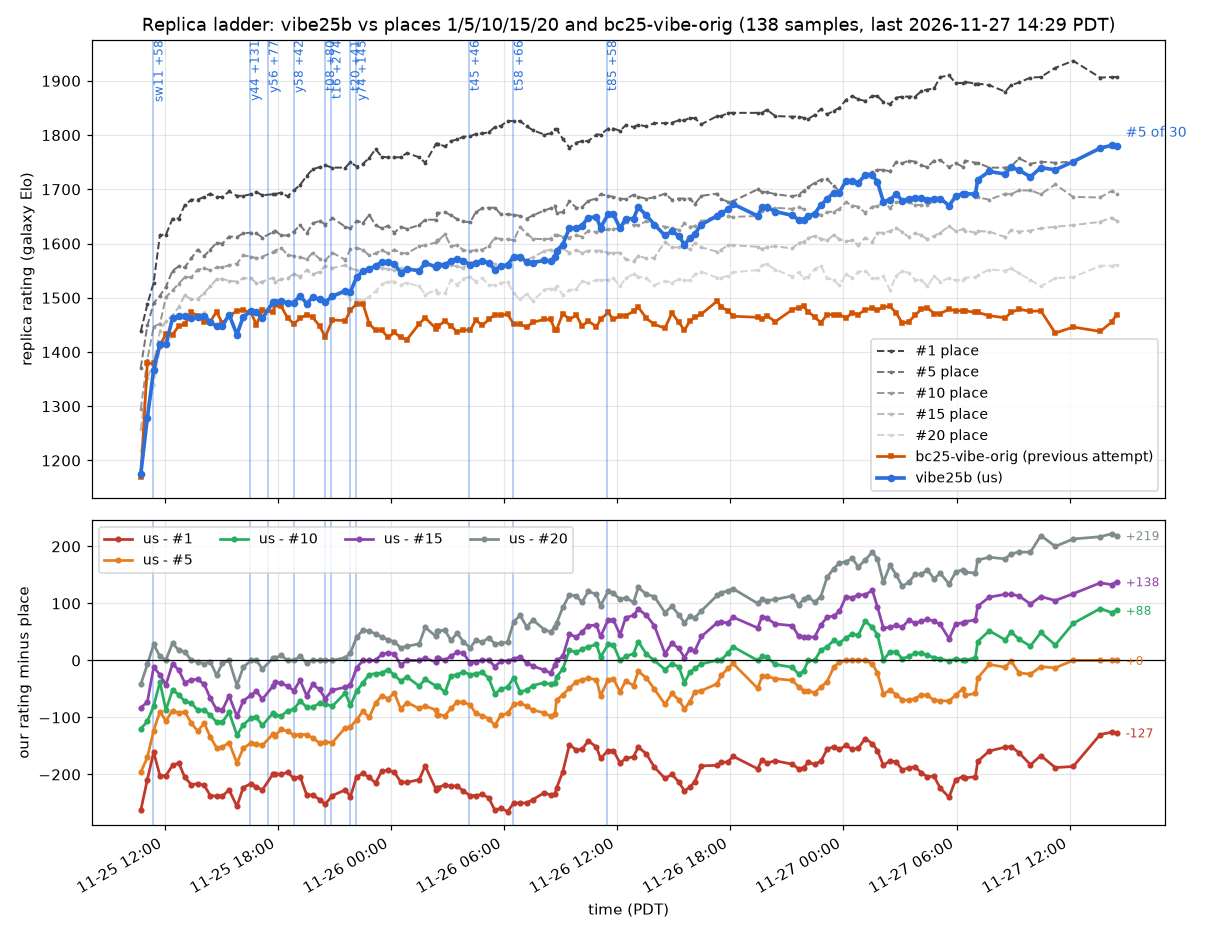
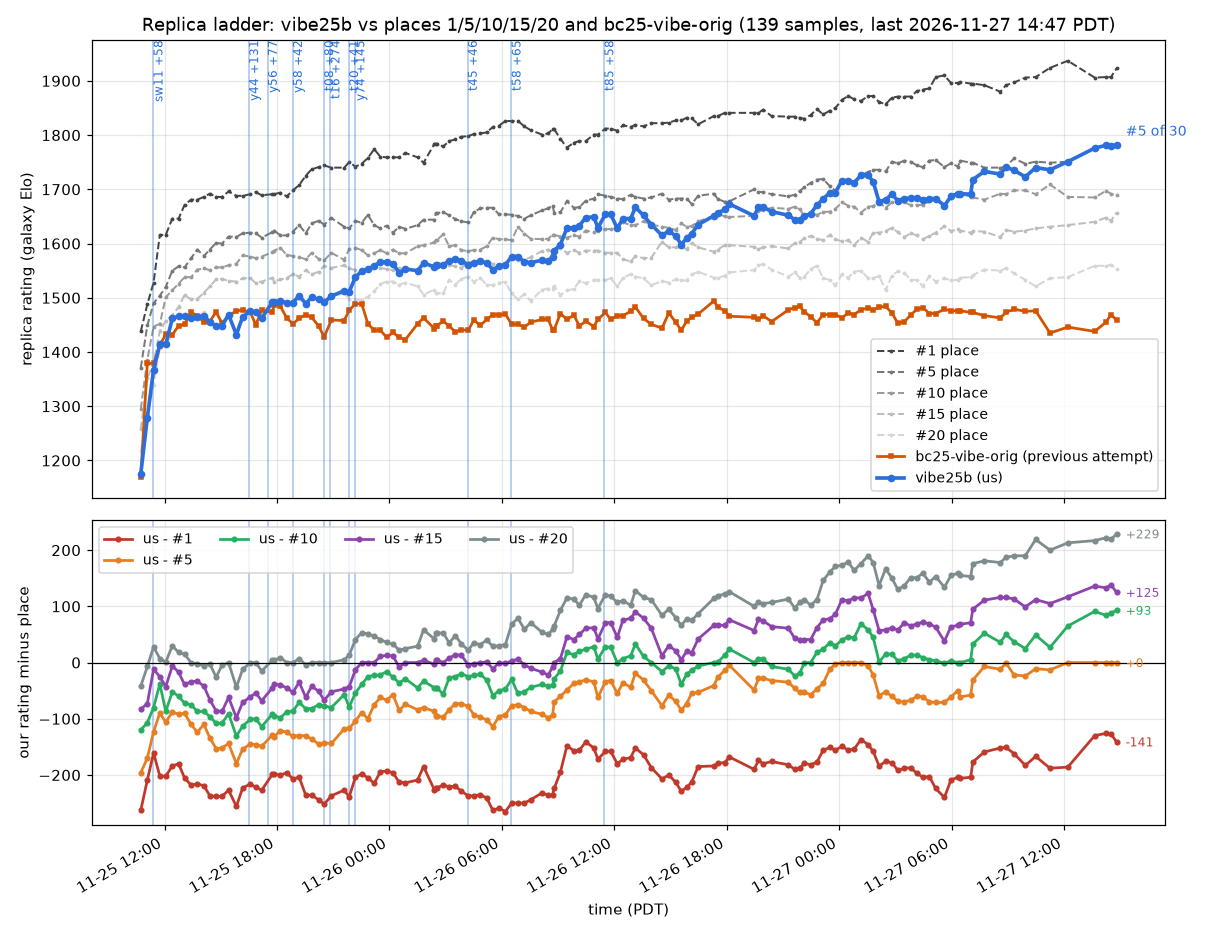
prod: newcomers at 70-140 games; PROMPTS #64-#65
Claude-Session: https://claude.ai/code/session_01SzziPSCWtjsjju9cnThDf5

diff --git a/progress/local-elo.md b/progress/local-elo.md
@@ -1,55 +1,55 @@
 # Local tournament Elo
 
-Bradley-Terry ratings of our own bots in the local tournament (`tools/tourney.py`), all 169849 games in one fit as of 2026-11-27 14:31 PDT, so every point is on the same scale; earlier champions are shown at their current rating, and "Gain" is the rating over the champion it replaced. `tools/tourney.py rank` rewrites this table; `tools/tourney.py chart` also redraws the chart.
+Bradley-Terry ratings of our own bots in the local tournament (`tools/tourney.py`), all 171054 games in one fit as of 2026-11-27 14:48 PDT, so every point is on the same scale; earlier champions are shown at their current rating, and "Gain" is the rating over the champion it replaced. `tools/tourney.py rank` rewrites this table; `tools/tourney.py chart` also redraws the chart.
 
 ![local elo](local-elo.png)
 
 | Champion from (PDT) | Bot | Change on base | Submission | Rating +- SE | Gain | Games |
 |---|---|---|---:|---:|---:|---:|
-| 2026-11-25 08:28 | v01 | foundation bot |  | 149 +- 18 |  | 435 |
-| 2026-11-25 08:39 | v02 | nav wall-follow fix + bytecode guards on v01 | #6 | 214 +- 13 | +65 | 801 |
-| 2026-11-25 09:01 | y02 | paint-heavy tower mix + paint towers upgraded first on v02 | #7 | 273 +- 11 | +59 | 1080 |
-| 2026-11-25 09:49 | y06 | 3 opening soldiers instead of 2 on y02 | #35 | 294 +- 13 | +21 | 700 |
-| 2026-11-25 10:09 | sw06 | no moppers before r80; a third of spawns moppers after (field study 1) on y02 | #36 | 352 +- 12 | +79 | 863 |
-| 2026-11-25 11:04 | y11 | mid-game mix 3 moppers per 6 (soldier mopper splasher mopper soldier mopper) on sw06 | #37 | 384 +- 14 | +33 | 655 |
-| 2026-11-25 11:24 | sw11 | at most 1 helper soldier per ruin (more ruins claimed in parallel) on y11 | #38 | 442 +- 11 | +58 | 1159 |
-| 2026-11-25 12:24 | y17 | sw11 + moppers prefer enemies within r2 25 of our towers (sw12) on sw11 | #39 | 460 +- 12 | +18 | 871 |
-| 2026-11-25 12:44 | y19 | sw11 with soldiers joining an occupied ruin only when adjacent (r2<=2) on y17 | #40 | 496 +- 14 | +35 | 678 |
-| 2026-11-25 13:04 | y24 | y17 with mopper defence widened (DEFEND_R2 36 / bonus 80) on y19 | #41 | 530 +- 13 | +35 | 679 |
-| 2026-11-25 13:24 | y25 | y19 (adjacent-only ruin helping) + y17 tower-defending moppers on y24 | #42 | 539 +- 12 | +9 | 898 |
-| 2026-11-25 13:44 | sw16 | y25 + soldier siege: with no ruin and paint>=80 kite a known enemy tower within r2 64 on y25 | #43 | 564 +- 11 | +24 | 976 |
-| 2026-11-25 14:04 | sw17 | y28 (siege from 50 paint r2 100) + splasher siege (towers weigh 40; walk to known tower within r2 100 at paint>=100) on sw16 | #44 | 597 +- 10 | +33 | 1110 |
-| 2026-11-25 14:44 | y30 | y28 with soldier siege from 30 paint within r2 144 (no splasher siege) on sw17 | #45 | 614 +- 7 | +17 | 2377 |
-| 2026-11-25 16:30 | y44 | study 3 tactic 3 (enemy refill policy): return at 50% paint (soldier 100/splasher 100/mopper 40) + end-of-turn top-up from any adjacent ally tower on y30 | #46 | 744 +- 8 | +131 | 2250 |
-| 2026-11-25 17:30 | y56 | study 3 tactic 4 (tower churn): a drained L1 money tower with intact pattern and an ally adjacent disintegrates at >=2000 chips; adjacent robots re-complete it for a fresh 500 paint on y44 | #47 | 822 +- 10 | +77 | 1320 |
-| 2026-11-25 18:50 | y58 | study 3 tactic 2 (early soldiers paint patterns not coverage): exploring soldiers paint no coverage before r50 on y56 | #48 | 863 +- 11 | +42 | 997 |
-| 2026-11-25 19:30 | t04 | t02 (no coverage painting before r80) + t03 (units wait beside drained money towers and repair their pattern so churn fires; study 3 tactics 2 and 4) on y58 | #49 | 896 +- 11 | +33 | 1065 |
-| 2026-11-25 20:30 | t08 | study 4 2.2 (contested ruins): soldiers skip a ruin with enemy paint in its visible 5x5 (bad for 50 rounds) on t04 | #50 | 976 +- 13 | +80 | 775 |
-| 2026-11-25 20:50 | t16 | t12 (t08 + study 4 2.1 spawn freeze 8 rounds in 20 below 1000+cost) + study 4 2.4 money-first: builds money until 8 towers then paint while paint towers < n/5; paint first only if none (all towers known) on t08 | #51 | 1251 +- 12 | +274 | 1213 |
-| 2026-11-25 21:50 | t20 | study 4 2.3: splashers weight enemy towers 30 (was 12) in the splash score on t16 | #52 | 1292 +- 15 | +41 | 587 |
-| 2026-11-25 22:10 | y74 | unit audit (owner prompt #15): splash-grid bug fix (enemy tiles never scored) + moppers stop once enemy paint is in mop reach; built on t16 on t20 | #53 | 1436 +- 10 | +145 | 1255 |
-| 2026-11-25 23:10 | t25 | unit audit + top teams' unit mix (616 S / 662 X / 701 M): after r80 paint towers cycle soldier-splasher-mopper; money towers keep S M X M S M on y74 | #54 | 1473 +- 13 | +36 | 680 |
-| 2026-11-25 23:30 | t27 | top teams' splasher-heavy late mix pushed further: paint towers cycle soldier-splasher-splasher-mopper after r80 on t25 | #55 | 1495 +- 9 | +23 | 1554 |
-| 2026-11-26 00:30 | y95 | upgrade spare 1200 (was 800): chips stay for new towers longer on t27 | #56 | 1530 +- 9 | +35 | 1822 |
-| 2026-11-26 02:01 | t36 | late SRPs (study 4 2.6 / study 3 tactic 7): soldiers without a ruin build SRPs on the x%4==2 y%4==2 lattice from r100 with chips>=1000; splashers avoid repainting SRP secondary tiles on y95 | #57 | 1567 +- 11 | +37 | 977 |
-| 2026-11-26 02:50 | y110 | money towers upgrade only with 2500 chips beyond the cost+spare (was 1000): chips go to new towers and SRPs on t36 | #58 | 1598 +- 10 | +31 | 1260 |
-| 2026-11-26 03:30 | t42 | study 4 3.1 recovery: with every tower known and no money tower left the next ruin is a money tower on y110 | #59 | 1613 +- 10 | +15 | 1332 |
-| 2026-11-26 04:10 | t45 | study 3 tactic 1: after r40 towers spawn only with 1000 chips beyond the unit's cost (no 600-chip window) on t42 | #60 | 1659 +- 10 | +46 | 1226 |
-| 2026-11-26 04:50 | t47 | study 3 tactic 5: a mopper due in the cycle spawns even below the 1000 reserve when an enemy robot is within d2 20 of the tower on t45 | #61 | 1688 +- 7 | +29 | 2398 |
-| 2026-11-26 06:30 | t58 | study 5 2.3: a splasher that has not splashed for 8 rounds (while able to) explores instead of chasing the nearest non-ally tile on t47 | #62 | 1754 +- 11 | +66 | 1087 |
-| 2026-11-26 07:10 | t61 | study 5 2.1 (softened): money towers for builds 1-5; then one more paint tower per 4 towers on t58 | #63 | 1790 +- 11 | +36 | 938 |
-| 2026-11-26 07:30 | y155 | study 5 2.1 tuned: money towers for builds 1-6; then one more paint tower per 4 towers on t61 | #64 | 1821 +- 9 | +32 | 1615 |
-| 2026-11-26 08:27 | t70 | y155 + splashers weight enemy towers 30 (t68) + 2000+ chips makes the next tower a paint tower (y159) on y155 | #65 | 1848 +- 7 | +27 | 2530 |
-| 2026-11-26 09:47 | t74 | moppers weight enemy paint near ruins 40 (study 6 2.1c) on t70 | #66 | 1867 +- 8 | +19 | 2200 |
-| 2026-11-26 10:47 | y170 | soldiers make the next tower a paint tower at 1500+ chips (t63 tuning; was 2000) on t74 | #67 | 1863 +- 7 | -4 | 2823 |
-| 2026-11-26 11:27 | t85 | study 6 2.2 ruin denial from where the soldier stands: a soldier with no ruin paints empty tiles of a ruin the enemy is building; without walking to it on y170 | #68 | 1921 +- 7 | +58 | 2556 |
-| 2026-11-26 12:47 | t91 | study 7 2.5: moppers ignore ruins under enemy towers when weighting ruin paint on t85 | #69 | 1933 +- 5 | +12 | 5663 |
-| 2026-11-26 13:27 | y195 | study 7 2.1a: explore unseen tiles first; up to 16 random draws on t91 | #70 | 1947 +- 9 | +14 | 1349 |
-| 2026-11-26 14:12 | y197 | ruin denial stops at 2 of our tiles (tuning of study 6 2.2) on y195 | #71 | 1963 +- 7 | +16 | 2235 |
-| 2026-11-26 15:27 | y211 | study 7 2.1a tuned: up to 128 random draws for an unseen explore target (was 16) on y197 | #72 | 1966 +- 6 | +3 | 4141 |
-| 2026-11-26 17:47 | y221 | study 8 2.2 (paint the first tower's pattern on the way in; a second soldier on the first ruin) + explore timeout 90; first champion through the confirmation stage (owner #46) on y211 | #73 | 2002 +- 5 | +36 | 6990 |
-| 2026-11-26 19:34 | t111 | splashers attack enemy paint/money towers from a stand-off tile outside their range (study 8 2.4) on y221 | #74 | 2015 +- 4 | +14 | 7551 |
-| 2026-11-26 23:27 | t118 | study 9 2.1b: a soldier on a blocked pattern with no own mopper or splasher in view gives up after 5 turns (was 25); confirmed +71 +-29 in 153 fresh games on t111 | #75 | 2051 +- 5 | +36 | 14179 |
-| 2026-11-27 01:07 | t122 | study 9 2.4: paint-tower dry flags expire after 10 rounds (was 40) and a flagged tower in sight is re-sensed; confirmed +6 +-19 in 378 fresh games; +16 overall on t118 | #76 | 2062 +- 4 | +11 | 17538 |
-| 2026-11-27 06:10 | t135 | study 10 2.6d: a soldier with no other soldier in view skips the 25-paint pattern mark (the top teams never mark); confirmed +9 +-22 in 262 fresh games; +14 overall on t122 | #77 | 2063 +- 6 | +0 | 5817 |
-| 2026-11-27 08:28 | t140 (now r140, verified identical) | study 11 2.1: free single marks (rc.mark on the 5x5 outer ring) replace the 25-paint pattern mark; marks re-read beside the ruin; confirmed +40 +-23 in 251 fresh games; +30 overall on t135 | #78 | 2102 +- 6 | +40 | 12584 |
+| 2026-11-25 08:28 | v01 | foundation bot |  | 146 +- 18 |  | 435 |
+| 2026-11-25 08:39 | v02 | nav wall-follow fix + bytecode guards on v01 | #6 | 211 +- 13 | +65 | 801 |
+| 2026-11-25 09:01 | y02 | paint-heavy tower mix + paint towers upgraded first on v02 | #7 | 270 +- 11 | +59 | 1080 |
+| 2026-11-25 09:49 | y06 | 3 opening soldiers instead of 2 on y02 | #35 | 291 +- 13 | +21 | 700 |
+| 2026-11-25 10:09 | sw06 | no moppers before r80; a third of spawns moppers after (field study 1) on y02 | #36 | 349 +- 12 | +79 | 863 |
+| 2026-11-25 11:04 | y11 | mid-game mix 3 moppers per 6 (soldier mopper splasher mopper soldier mopper) on sw06 | #37 | 381 +- 14 | +33 | 655 |
+| 2026-11-25 11:24 | sw11 | at most 1 helper soldier per ruin (more ruins claimed in parallel) on y11 | #38 | 439 +- 11 | +58 | 1159 |
+| 2026-11-25 12:24 | y17 | sw11 + moppers prefer enemies within r2 25 of our towers (sw12) on sw11 | #39 | 458 +- 12 | +18 | 871 |
+| 2026-11-25 12:44 | y19 | sw11 with soldiers joining an occupied ruin only when adjacent (r2<=2) on y17 | #40 | 493 +- 14 | +35 | 678 |
+| 2026-11-25 13:04 | y24 | y17 with mopper defence widened (DEFEND_R2 36 / bonus 80) on y19 | #41 | 527 +- 13 | +35 | 679 |
+| 2026-11-25 13:24 | y25 | y19 (adjacent-only ruin helping) + y17 tower-defending moppers on y24 | #42 | 537 +- 12 | +9 | 898 |
+| 2026-11-25 13:44 | sw16 | y25 + soldier siege: with no ruin and paint>=80 kite a known enemy tower within r2 64 on y25 | #43 | 561 +- 11 | +24 | 976 |
+| 2026-11-25 14:04 | sw17 | y28 (siege from 50 paint r2 100) + splasher siege (towers weigh 40; walk to known tower within r2 100 at paint>=100) on sw16 | #44 | 594 +- 10 | +33 | 1110 |
+| 2026-11-25 14:44 | y30 | y28 with soldier siege from 30 paint within r2 144 (no splasher siege) on sw17 | #45 | 611 +- 7 | +17 | 2377 |
+| 2026-11-25 16:30 | y44 | study 3 tactic 3 (enemy refill policy): return at 50% paint (soldier 100/splasher 100/mopper 40) + end-of-turn top-up from any adjacent ally tower on y30 | #46 | 741 +- 8 | +131 | 2250 |
+| 2026-11-25 17:30 | y56 | study 3 tactic 4 (tower churn): a drained L1 money tower with intact pattern and an ally adjacent disintegrates at >=2000 chips; adjacent robots re-complete it for a fresh 500 paint on y44 | #47 | 819 +- 10 | +77 | 1320 |
+| 2026-11-25 18:50 | y58 | study 3 tactic 2 (early soldiers paint patterns not coverage): exploring soldiers paint no coverage before r50 on y56 | #48 | 860 +- 11 | +42 | 997 |
+| 2026-11-25 19:30 | t04 | t02 (no coverage painting before r80) + t03 (units wait beside drained money towers and repair their pattern so churn fires; study 3 tactics 2 and 4) on y58 | #49 | 893 +- 11 | +33 | 1065 |
+| 2026-11-25 20:30 | t08 | study 4 2.2 (contested ruins): soldiers skip a ruin with enemy paint in its visible 5x5 (bad for 50 rounds) on t04 | #50 | 973 +- 13 | +80 | 775 |
+| 2026-11-25 20:50 | t16 | t12 (t08 + study 4 2.1 spawn freeze 8 rounds in 20 below 1000+cost) + study 4 2.4 money-first: builds money until 8 towers then paint while paint towers < n/5; paint first only if none (all towers known) on t08 | #51 | 1248 +- 12 | +274 | 1213 |
+| 2026-11-25 21:50 | t20 | study 4 2.3: splashers weight enemy towers 30 (was 12) in the splash score on t16 | #52 | 1289 +- 15 | +41 | 587 |
+| 2026-11-25 22:10 | y74 | unit audit (owner prompt #15): splash-grid bug fix (enemy tiles never scored) + moppers stop once enemy paint is in mop reach; built on t16 on t20 | #53 | 1433 +- 10 | +145 | 1255 |
+| 2026-11-25 23:10 | t25 | unit audit + top teams' unit mix (616 S / 662 X / 701 M): after r80 paint towers cycle soldier-splasher-mopper; money towers keep S M X M S M on y74 | #54 | 1470 +- 13 | +36 | 680 |
+| 2026-11-25 23:30 | t27 | top teams' splasher-heavy late mix pushed further: paint towers cycle soldier-splasher-splasher-mopper after r80 on t25 | #55 | 1492 +- 9 | +23 | 1554 |
+| 2026-11-26 00:30 | y95 | upgrade spare 1200 (was 800): chips stay for new towers longer on t27 | #56 | 1527 +- 9 | +35 | 1822 |
+| 2026-11-26 02:01 | t36 | late SRPs (study 4 2.6 / study 3 tactic 7): soldiers without a ruin build SRPs on the x%4==2 y%4==2 lattice from r100 with chips>=1000; splashers avoid repainting SRP secondary tiles on y95 | #57 | 1564 +- 11 | +37 | 977 |
+| 2026-11-26 02:50 | y110 | money towers upgrade only with 2500 chips beyond the cost+spare (was 1000): chips go to new towers and SRPs on t36 | #58 | 1595 +- 10 | +31 | 1260 |
+| 2026-11-26 03:30 | t42 | study 4 3.1 recovery: with every tower known and no money tower left the next ruin is a money tower on y110 | #59 | 1610 +- 10 | +15 | 1332 |
+| 2026-11-26 04:10 | t45 | study 3 tactic 1: after r40 towers spawn only with 1000 chips beyond the unit's cost (no 600-chip window) on t42 | #60 | 1656 +- 10 | +46 | 1226 |
+| 2026-11-26 04:50 | t47 | study 3 tactic 5: a mopper due in the cycle spawns even below the 1000 reserve when an enemy robot is within d2 20 of the tower on t45 | #61 | 1685 +- 7 | +29 | 2398 |
+| 2026-11-26 06:30 | t58 | study 5 2.3: a splasher that has not splashed for 8 rounds (while able to) explores instead of chasing the nearest non-ally tile on t47 | #62 | 1751 +- 11 | +65 | 1087 |
+| 2026-11-26 07:10 | t61 | study 5 2.1 (softened): money towers for builds 1-5; then one more paint tower per 4 towers on t58 | #63 | 1787 +- 11 | +36 | 938 |
+| 2026-11-26 07:30 | y155 | study 5 2.1 tuned: money towers for builds 1-6; then one more paint tower per 4 towers on t61 | #64 | 1818 +- 9 | +31 | 1615 |
+| 2026-11-26 08:27 | t70 | y155 + splashers weight enemy towers 30 (t68) + 2000+ chips makes the next tower a paint tower (y159) on y155 | #65 | 1845 +- 7 | +27 | 2530 |
+| 2026-11-26 09:47 | t74 | moppers weight enemy paint near ruins 40 (study 6 2.1c) on t70 | #66 | 1864 +- 8 | +19 | 2200 |
+| 2026-11-26 10:47 | y170 | soldiers make the next tower a paint tower at 1500+ chips (t63 tuning; was 2000) on t74 | #67 | 1860 +- 7 | -4 | 2823 |
+| 2026-11-26 11:27 | t85 | study 6 2.2 ruin denial from where the soldier stands: a soldier with no ruin paints empty tiles of a ruin the enemy is building; without walking to it on y170 | #68 | 1918 +- 7 | +58 | 2556 |
+| 2026-11-26 12:47 | t91 | study 7 2.5: moppers ignore ruins under enemy towers when weighting ruin paint on t85 | #69 | 1930 +- 5 | +12 | 5663 |
+| 2026-11-26 13:27 | y195 | study 7 2.1a: explore unseen tiles first; up to 16 random draws on t91 | #70 | 1943 +- 9 | +14 | 1349 |
+| 2026-11-26 14:12 | y197 | ruin denial stops at 2 of our tiles (tuning of study 6 2.2) on y195 | #71 | 1959 +- 7 | +16 | 2235 |
+| 2026-11-26 15:27 | y211 | study 7 2.1a tuned: up to 128 random draws for an unseen explore target (was 16) on y197 | #72 | 1963 +- 6 | +3 | 4141 |
+| 2026-11-26 17:47 | y221 | study 8 2.2 (paint the first tower's pattern on the way in; a second soldier on the first ruin) + explore timeout 90; first champion through the confirmation stage (owner #46) on y211 | #73 | 1998 +- 5 | +36 | 6990 |
+| 2026-11-26 19:34 | t111 | splashers attack enemy paint/money towers from a stand-off tile outside their range (study 8 2.4) on y221 | #74 | 2012 +- 4 | +14 | 7551 |
+| 2026-11-26 23:27 | t118 | study 9 2.1b: a soldier on a blocked pattern with no own mopper or splasher in view gives up after 5 turns (was 25); confirmed +71 +-29 in 153 fresh games on t111 | #75 | 2048 +- 5 | +36 | 14512 |
+| 2026-11-27 01:07 | t122 | study 9 2.4: paint-tower dry flags expire after 10 rounds (was 40) and a flagged tower in sight is re-sensed; confirmed +6 +-19 in 378 fresh games; +16 overall on t118 | #76 | 2059 +- 4 | +11 | 17873 |
+| 2026-11-27 06:10 | t135 | study 10 2.6d: a soldier with no other soldier in view skips the 25-paint pattern mark (the top teams never mark); confirmed +9 +-22 in 262 fresh games; +14 overall on t122 | #77 | 2059 +- 6 | +0 | 5817 |
+| 2026-11-27 08:28 | t140 (now r140, verified identical) | study 11 2.1: free single marks (rc.mark on the 5x5 outer ring) replace the 25-paint pattern mark; marks re-read beside the ruin; confirmed +40 +-23 in 251 fresh games; +30 overall on t135 | #78 | 2099 +- 5 | +40 | 13379 |

diff --git a/PROMPTS.md b/PROMPTS.md
@@ -215,3 +215,9 @@ Also stay on top of field study 12, and make sure it doesn't run stuck again
 
 ## #63 (2026-11-27 14:11 PDT)
 I realize you're almost done the refactor, so this is a moot point, but you could always run the verification games on the box or larger VM if the driver is too slow
+
+## #64 (2026-11-27 14:48 PDT)
+I changed the page color on the dashboard to white, but it still renders in dark mode on my laptop.  Is that something you can fix?
+
+## #65 (2026-11-27 14:49 PDT)
+Never mind, figured itout
